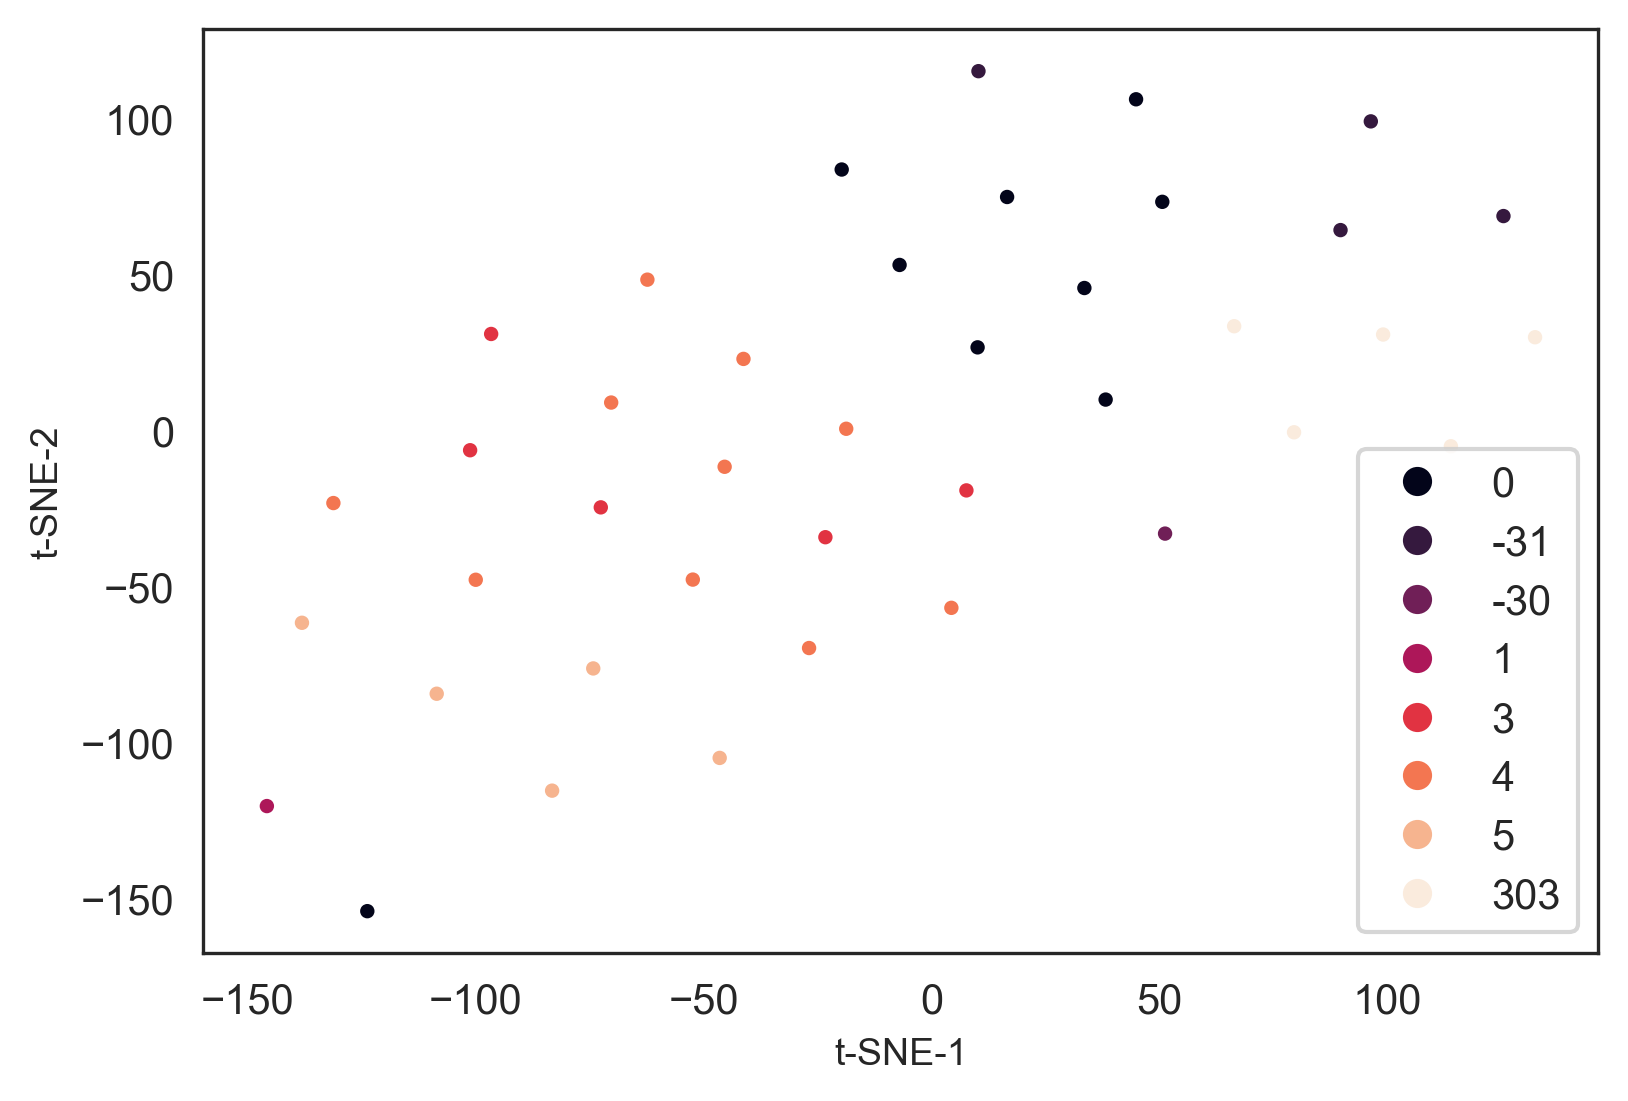
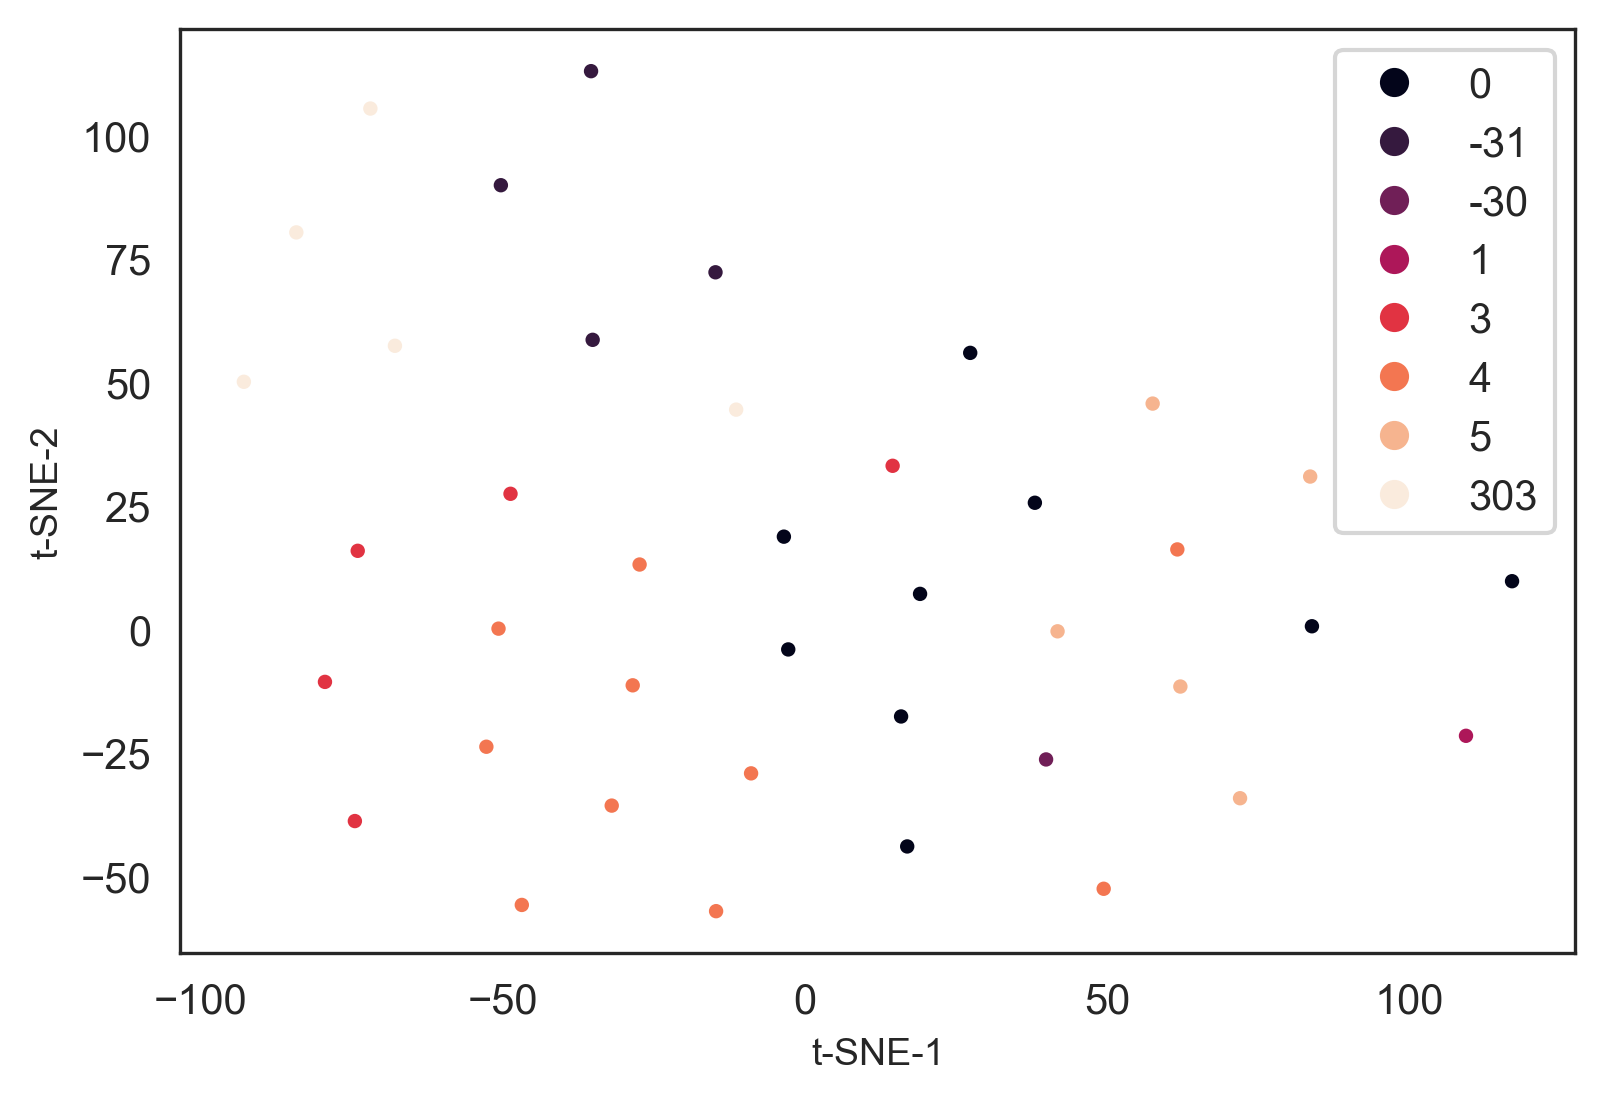
gpu compatible

diff --git a/src/model.py b/src/model.py
@@ -85,7 +85,7 @@ def generate_gt_neighbor(neighbor_dict, node_embeddings, neighbor_num_list, in_d
 
 
 class GNNStructEncoder(nn.Module):
-    def __init__(self, in_dim, hidden_dim, out_dim, layer_num, max_degree_num, GNN_name="GIN"):
+    def __init__(self, in_dim, hidden_dim, out_dim, layer_num, max_degree_num, device, GNN_name="GIN"):
         super(GNNStructEncoder, self).__init__()
         self.n_distribution = out_dim # How many gaussian distribution should exist
         if GNN_name == "GIN":
@@ -95,9 +95,9 @@ class GNNStructEncoder(nn.Module):
             self.graphconv2 = GINConv(apply_func=self.linear2, aggregator_type='sum')
         self.linear_classifier = MLP(1, hidden_dim, hidden_dim, out_dim)
         # Gaussian Means, and std
-        self.gaussian_mean = nn.Parameter(torch.FloatTensor(self.n_distribution, hidden_dim).uniform_(-0.5 / hidden_dim, 0.5 / hidden_dim))
+        self.gaussian_mean = nn.Parameter(torch.FloatTensor(self.n_distribution, hidden_dim).uniform_(-0.5 / hidden_dim, 0.5 / hidden_dim)).to(device)
         self.gaussian_log_sigma = nn.Parameter(
-            torch.FloatTensor(self.n_distribution, hidden_dim).uniform_(-0.5 / hidden_dim, 0.5 / hidden_dim))
+            torch.FloatTensor(self.n_distribution, hidden_dim).uniform_(-0.5 / hidden_dim, 0.5 / hidden_dim)).to(device)
         self.m = torch.distributions.Normal(torch.zeros(self.n_distribution, hidden_dim), torch.ones(self.n_distribution, hidden_dim))
         # Decoders
         self.degree_decoder = FNN(hidden_dim, hidden_dim, max_degree_num, 4)
@@ -115,7 +115,7 @@ class GNNStructEncoder(nn.Module):
         #     g.ndata['h'] = h
         return l5, l4, l3
 
-    def neighbor_decoder(self, gij, ground_truth_degree_matrix, gt_neighbor_embeddings1, gt_neighbor_embeddings2, neighbor_num_list, temp, g, h, neighbor_dict):
+    def neighbor_decoder(self, gij, ground_truth_degree_matrix, gt_neighbor_embeddings1, gt_neighbor_embeddings2, neighbor_num_list, temp, g, h, neighbor_dict, device):
         degree_logits = self.degree_decoding(gij)
         degree_loss = self.degree_loss_func(degree_logits, ground_truth_degree_matrix)
         _, degree_masks = torch.max(degree_logits.data, dim=1)
@@ -129,7 +129,7 @@ class GNNStructEncoder(nn.Module):
                 zij = F.gumbel_softmax(self.linear_classifier(embedding), tau=temp)
                 generated_neighbors = []
                 for _ in range(max_neighbor_num):
-                    std_z = self.m.sample()
+                    std_z = self.m.sample().to(device)
                     var = self.gaussian_mean + self.gaussian_log_sigma.exp() * std_z
                     var = F.dropout(var, 0.2)
                     nhij = zij @ var
@@ -172,9 +172,9 @@ class GNNStructEncoder(nn.Module):
         degree_logits = self.degree_decoder(node_embeddings)
         return degree_logits
 
-    def forward(self, g, h, ground_truth_degree_matrix, neighbor_dict, neighbor_num_list, in_dim, temp):
+    def forward(self, g, h, ground_truth_degree_matrix, neighbor_dict, neighbor_num_list, in_dim, temp, device):
         gij, l4, l3 = self.forward_encoder(g, h)
         gt_neighbor_embeddings1 = generate_gt_neighbor(neighbor_dict, l4, neighbor_num_list, in_dim)
         gt_neighbor_embeddings2 = generate_gt_neighbor(neighbor_dict, l3, neighbor_num_list, in_dim)
-        loss, hij = self.neighbor_decoder(gij, ground_truth_degree_matrix, gt_neighbor_embeddings1, gt_neighbor_embeddings2, neighbor_num_list, temp, g, h, neighbor_dict)
+        loss, hij = self.neighbor_decoder(gij, ground_truth_degree_matrix, gt_neighbor_embeddings1, gt_neighbor_embeddings2, neighbor_num_list, temp, g, h, neighbor_dict, device)
         return loss, hij

diff --git a/src/train.py b/src/train.py
@@ -22,7 +22,7 @@ from data import shapes
 def cluster_graph(role_id, node_embeddings):
     nb_clust = len(np.unique(role_id))
     pca = PCA(n_components=5)
-    trans_data = pca.fit_transform(StandardScaler().fit_transform(node_embeddings.detach()))
+    trans_data = pca.fit_transform(StandardScaler().fit_transform(node_embeddings.cpu().detach()))
     km = KMeans(n_clusters=nb_clust)
     km.fit(trans_data)
     labels_pred = km.labels_
@@ -47,7 +47,7 @@ def cluster_graph(role_id, node_embeddings):
 
 def draw_pca(role_id, node_embeddings):
     pca = PCA(n_components=2)
-    node_embedded = StandardScaler().fit_transform(node_embeddings.detach())
+    node_embedded = StandardScaler().fit_transform(node_embeddings.cpu().detach())
     principalComponents = pca.fit_transform(node_embedded)
     principalDf = pd.DataFrame(data=principalComponents,
                                columns=['principal component 1', 'principal component 2'])
@@ -108,9 +108,9 @@ if __name__ == '__main__':
     node_color = [coloring[role_id[i]] for i in range(len(role_id))]
     print(coloring)
     g = dgl.from_networkx(G)
-    g.to(device)
+    g = g.to(device)
     one_hot_feature = F.one_hot(g.in_degrees())
-    g.ndata['attr'] = one_hot_feature
+    g.ndata['attr'] = one_hot_feature.float()
     in_nodes, out_nodes = g.edges()
     neighbor_dict = {}
     for in_node, out_node in zip(in_nodes, out_nodes):
@@ -126,18 +126,19 @@ if __name__ == '__main__':
         neighbor_num_list.append(len(neighbor_dict[i]))
     in_dim = 6
     # Train in_dim, hidden_dim, out_dim, layer_num, max_degree_num
-    GNNModel = GNNStructEncoder(in_dim, in_dim, 7, 2, in_dim)
+    GNNModel = GNNStructEncoder(in_dim, in_dim, 7, 2, in_dim, device=device)
     GNNModel.to(device)
     opt = torch.optim.Adam(GNNModel.parameters(), lr=5e-4, weight_decay=0.00003)
     for i in range(500):
-        feats = g.ndata['attr'].float()
+        feats = g.ndata['attr']
+        feats = feats.to(device)
         # g, h, ground_truth_degree_matrix, neighbor_dict, neighbor_num_list, in_dim, temp
-        loss, node_embeddings = GNNModel(g, feats, g.in_degrees(), neighbor_dict, neighbor_num_list, in_dim, temp)
+        loss, node_embeddings = GNNModel(g, feats, g.in_degrees(), neighbor_dict, neighbor_num_list, in_dim, temp, device=device)
         if i % 100 == 1:
             temp = np.maximum(temp * np.exp(-ANNEAL_RATE * i), temp_min)
         if i == 0:
             ## Draw everything
-            node_embedded = TSNE(n_components=2).fit_transform(node_embeddings.detach().numpy())
+            node_embedded = TSNE(n_components=2).fit_transform(node_embeddings.cpu().detach().numpy())
             cluster.tsneplot(score=node_embedded, colorlist=role_id, figname="beforetrain_tsne")
             cluster_graph(role_id, node_embeddings)
             draw_pca(role_id, node_embeddings)
@@ -145,7 +146,7 @@ if __name__ == '__main__':
         loss.backward()
         print(loss.item())
         opt.step()
-    node_embedded = TSNE(n_components=2).fit_transform(node_embeddings.detach().numpy())
+    node_embedded = TSNE(n_components=2).fit_transform(node_embeddings.cpu().detach().numpy())
     cluster.tsneplot(score=node_embedded, colorlist=role_id, figname="aftertrain_tsne")
     cluster_graph(role_id, node_embeddings)
     draw_pca(role_id, node_embeddings)
